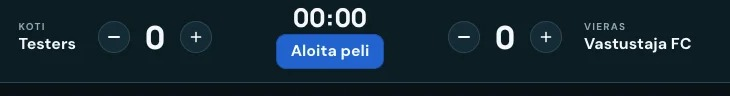
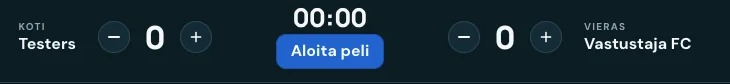
Align Peluutin's header comparison with the text column
The figure used the wide-image offset, which only fits single images.
The before crop no longer shows the old header's bottom edge, and an
unused copy of the old match view is removed.

diff --git a/peluutin/index.html b/peluutin/index.html
@@ -208,7 +208,7 @@ figcaption{margin-top:12px;max-width:44em;font-size:14px;line-height:1.5;color:v
 .ch{margin-top:144px}
 .ch .no{font-size:14px;color:var(--faint);font-variant-numeric:tabular-nums}
 .ch h2{margin:6px 0 0;font-weight:600;font-size:clamp(34px,4.6vw,48px);line-height:1.04;letter-spacing:-.045em;text-wrap:balance}
-.ba>div{margin-top:14px}.ba>div:first-child{margin-top:0}.ba span{display:block;margin-bottom:8px;font-size:14px;color:var(--faint)}.ba img{display:block;width:100%;height:auto;border-radius:12px}
+.ba{margin-top:48px}.ba>div{margin-top:14px}.ba>div:first-child{margin-top:0}.ba span{display:block;margin-bottom:8px;font-size:14px;color:var(--faint)}.ba img{display:block;width:100%;height:auto;border-radius:12px}
 .blocks{display:grid;grid-template-columns:1fr 1fr;gap:44px 48px;margin:48px 0 0}
 .blocks h3{margin:0;font-weight:500;font-size:20px;letter-spacing:-.02em}
 .blocks p{margin:12px 0 0;font-size:17px;line-height:1.6;color:var(--mute);text-wrap:pretty}
@@ -415,7 +415,7 @@ html{overflow-y:scroll;scrollbar-gutter:stable}
   <section class="ch" aria-labelledby="c2b">
     <h2 id="c2b">Make the score the button</h2>
     <div class="blocks"><div class=""><h3>Problem</h3><p>During a match the coach looks at the phone for a second at a time. The score and the clock were small, and each score had its own − and + buttons, so marking a goal meant hitting a small target.</p></div><div class=""><h3>What changed</h3><p>The score is now the button. A tap adds a goal and asks who scored, and a long press opens a sheet for taking one back. The score and the match clock are bigger, and the sport switch moved to team settings to make room.</p></div></div>
-    <figure class="wide ba"><div><span>Before</span><img class="reveal zoom" src="/p/peluutin-header-before.jpg" alt="The old match header: small scores with separate minus and plus buttons, and a small match clock" width="730" height="96" loading="lazy"></div><div><span>Now</span><img class="reveal zoom" src="/p/peluutin-header-after.jpg" alt="The new match header: large score buttons on both sides of a larger match clock" width="870" height="115" loading="lazy"></div><figcaption>The match header before and after the change.</figcaption></figure>
+    <figure class="ba"><div><span>Before</span><img class="reveal zoom" src="/p/peluutin-header-before.jpg" alt="The old match header: small scores with separate minus and plus buttons, and a small match clock" width="730" height="84" loading="lazy"></div><div><span>Now</span><img class="reveal zoom" src="/p/peluutin-header-after.jpg" alt="The new match header: large score buttons on both sides of a larger match clock" width="870" height="115" loading="lazy"></div><figcaption>The match header before and after the change.</figcaption></figure>
   </section>
 
   <section class="ch" aria-labelledby="c3">
